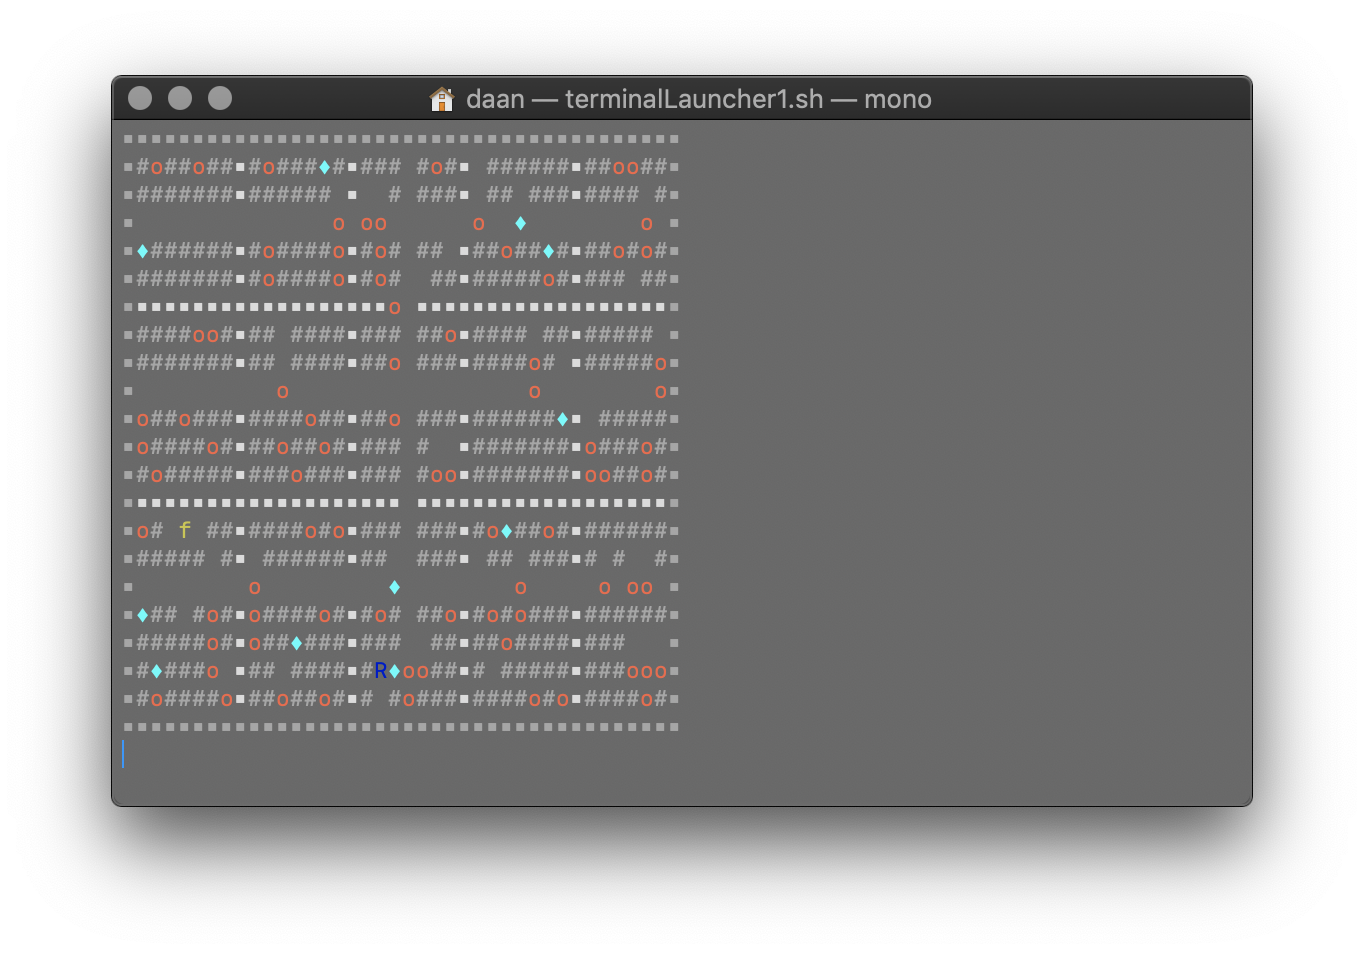
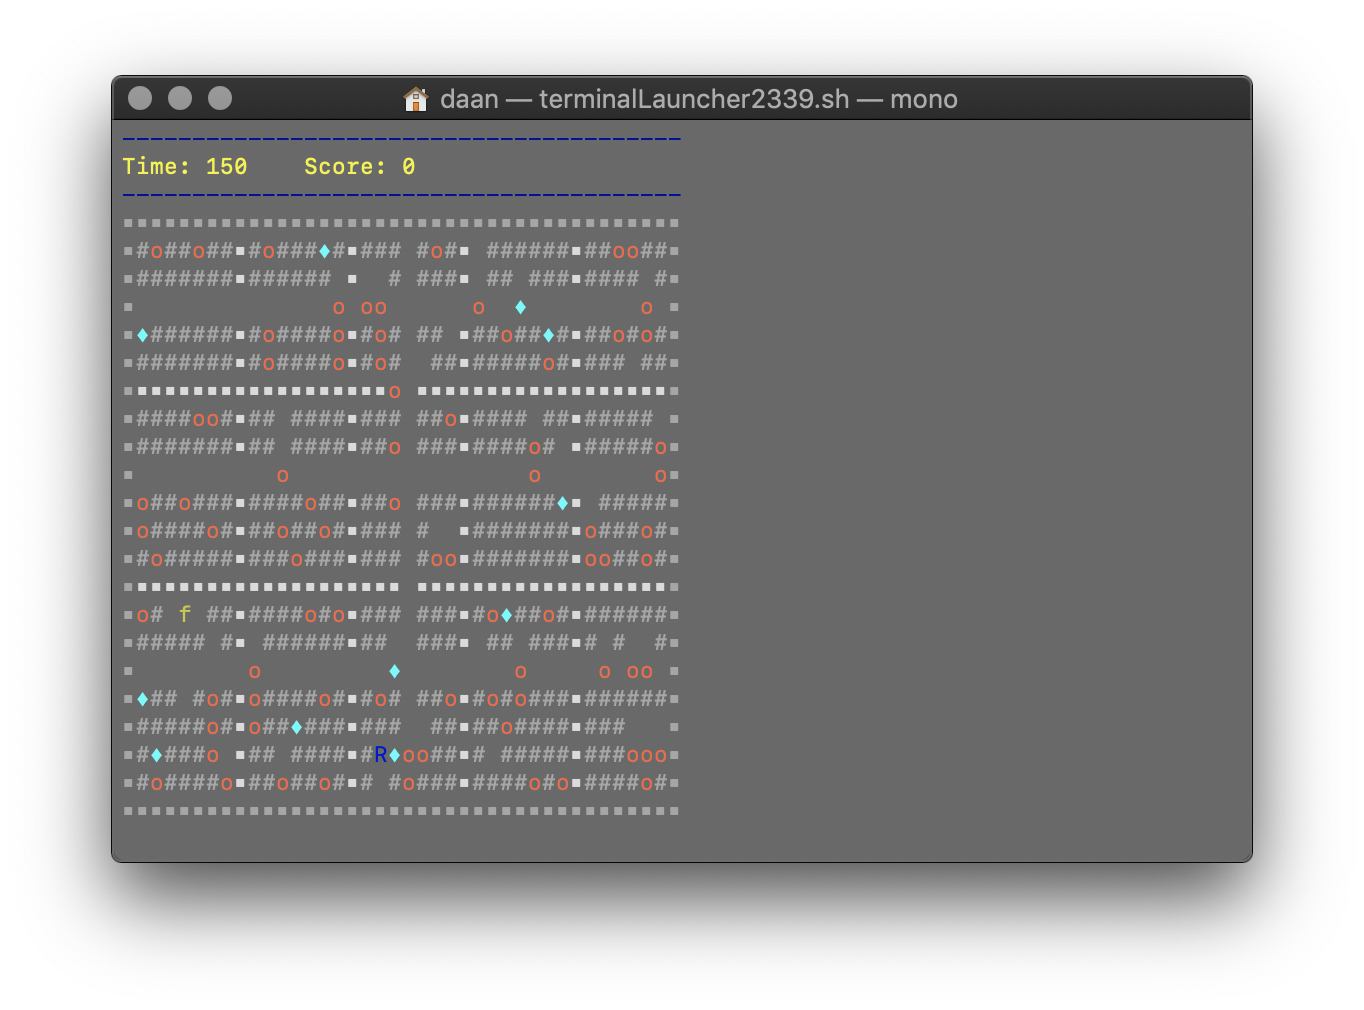
Made small changes to time & score output

Changed region(s): [[0.0924, 0.0608, 0.9238, 0.8816], [0.893, 0.8208, 0.9238, 0.8512]]

diff --git a/Boulderdash/app/views/OutputView.cs b/Boulderdash/app/views/OutputView.cs
@@ -46,8 +46,9 @@ namespace Boulderdash.app.views
             Console.Clear();
             
             //Draw Time & Score
-            WriteColoredLine($"Time: {level.Time} Score: {level.Score}", ConsoleColor.Yellow);
-            WriteColoredLine("========================================", ConsoleColor.DarkBlue);
+            WriteColoredLine("----------------------------------------", ConsoleColor.DarkBlue);
+            WriteColoredLine($"Time: {level.Time}    Score: {level.Score}", ConsoleColor.Yellow);
+            WriteColoredLine("----------------------------------------", ConsoleColor.DarkBlue);
             
                 
             Tile currentNode = level.Start, startingNode = level.Start;

diff --git a/Boulderdash/app/models/Tile.cs b/Boulderdash/app/models/Tile.cs
@@ -7,9 +7,7 @@ using System.Threading.Tasks;
 namespace Boulderdash.app.models
 {
     public class Tile
-    {
-        public Level Level { get; set; }
-        
+    {        
         public Entity Entity { get; set; }
 
         public Tile Top { get; set; }
